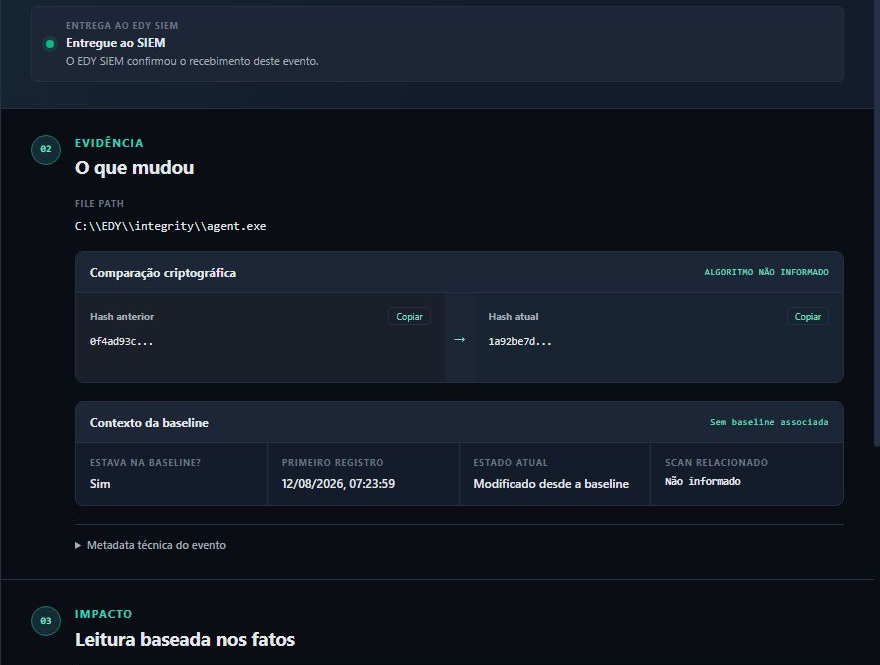
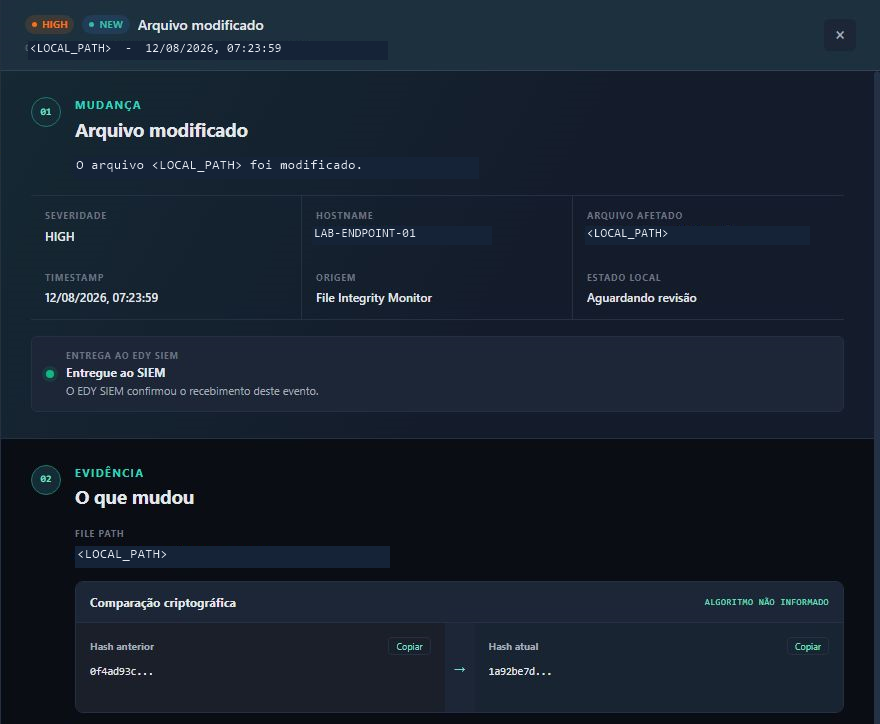
docs(linkedin): approve Shield to SIEM integration post

diff --git a/docs/social/linkedin/2026-08-19-shield-siem-event-contract.md b/docs/social/linkedin/2026-08-19-shield-siem-event-contract.md
@@ -1,7 +1,7 @@
 # LinkedIn — Como construí a integração Shield → SIEM
 
 - Data planejada: 2026-08-19
-- Status: DRAFT
+- Status: APPROVED
 - Tema: Como construí a integração Shield → SIEM
 - Ângulo: a entrega confiável começa antes da requisição HTTP.
 - Imagem selecionada: `2026-08-19-shield-siem-outbox-handoff.png`
@@ -12,25 +12,27 @@
 
 ## Texto final
 
-A parte mais trabalhosa da integração Shield → SIEM não foi fazer um POST funcionar. Foi
-decidir o que acontece quando ele não funciona.
+A parte mais trabalhosa da integração Shield → SIEM não foi fazer um POST funcionar.
 
-O Event Contract v1 nasce no Shield com um `event_id` estável e é persistido em uma SQLite
-Outbox antes de qualquer tentativa HTTP. O worker de entrega roda separado do scan e do
-alerta local. Se o SIEM estiver offline, o evento não some e o Shield não precisa parar para
-esperar o receptor.
+Foi decidir o que deveria acontecer quando ele não funcionasse.
 
-No SIEM, a Ingestion API valida e normaliza o contrato, enquanto a Inbox usa a identidade
-do evento para receber a mesma entrega sem criar outro registro lógico. Para falhas
-temporárias, o worker remarca a tentativa com backoff exponencial e jitter; respostas que
-não devem virar tempestade de retry recebem tratamento separado.
+No EDY Shield, cada evento recebe um `event_id` estável e entra primeiro em uma SQLite Outbox. Só depois o worker tenta entregar esse evento ao SIEM.
 
-Eu derrubei o SIEM de propósito durante o fluxo para verificar a parte que não aparece no
-diagrama. Quando ele voltou, os eventos pendentes foram entregues. Nos testes de processo
-real, o resultado foi zero eventos perdidos e zero duplicação lógica.
+Isso foi importante porque eu não queria que a proteção do endpoint dependesse de uma conexão disponível o tempo todo.
 
-Essa foi a diferença entre integrar duas telas e construir uma fronteira de entrega que eu
-conseguiria confiar durante uma indisponibilidade.
+Do outro lado, o EDY SIEM valida e normaliza o Event Contract v1 antes de persistir o evento na Inbox. Se o mesmo `event_id` chegar novamente, ele é reconhecido sem criar outro registro lógico.
+
+Também precisei separar bem o que merece nova tentativa do que não merece.
+
+Timeout, indisponibilidade e falhas temporárias entram em retry com backoff. Já um payload estruturalmente inválido não pode ficar preso em um loop infinito tentando ser enviado para sempre.
+
+O teste que mais me interessava era simples: desligar o SIEM no meio do fluxo.
+
+O Shield continuou funcionando e guardando os eventos. Quando o SIEM voltou, os pendentes foram entregues.
+
+Nos testes finais: zero eventos perdidos e zero duplicação lógica.
+
+Foi aí que a integração começou a fazer sentido para mim. Não era só ligar duas interfaces, mas construir uma fronteira de entrega que continuasse confiável quando uma das partes estivesse fora do ar.
 
 EDY Shield: https://github.com/EDY075/edy-shield
 EDY SIEM: https://github.com/EDY075/EDYSIEM

diff --git a/docs/social/linkedin/CALENDARIO_2026-08_EDY.md b/docs/social/linkedin/CALENDARIO_2026-08_EDY.md
@@ -5,7 +5,7 @@
 | 12/08 | PUBLISHED | EDY Shield + EDY SIEM — release/ecossistema integrado | `2026-08-12-edy-shield-siem-release.md` |
 | 14/08 | APPROVED | EDY Shield por dentro — Endpoint Integrity & Defense | `2026-08-14-edy-shield-endpoint-integrity.md` |
 | 17/08 | APPROVED | EDY SIEM por dentro — SOC Decision Center | `2026-08-17-edy-siem-soc-decision-center.md` |
-| 19/08 | DRAFT | Como construí a integração Shield → SIEM | `2026-08-19-shield-siem-event-contract.md` |
+| 19/08 | APPROVED | Como construí a integração Shield → SIEM | `2026-08-19-shield-siem-event-contract.md` |
 | 21/08 | DRAFT | Investigation Workflow | `2026-08-21-edy-investigation-workflow.md` |
 
 ## Regra de sequência
